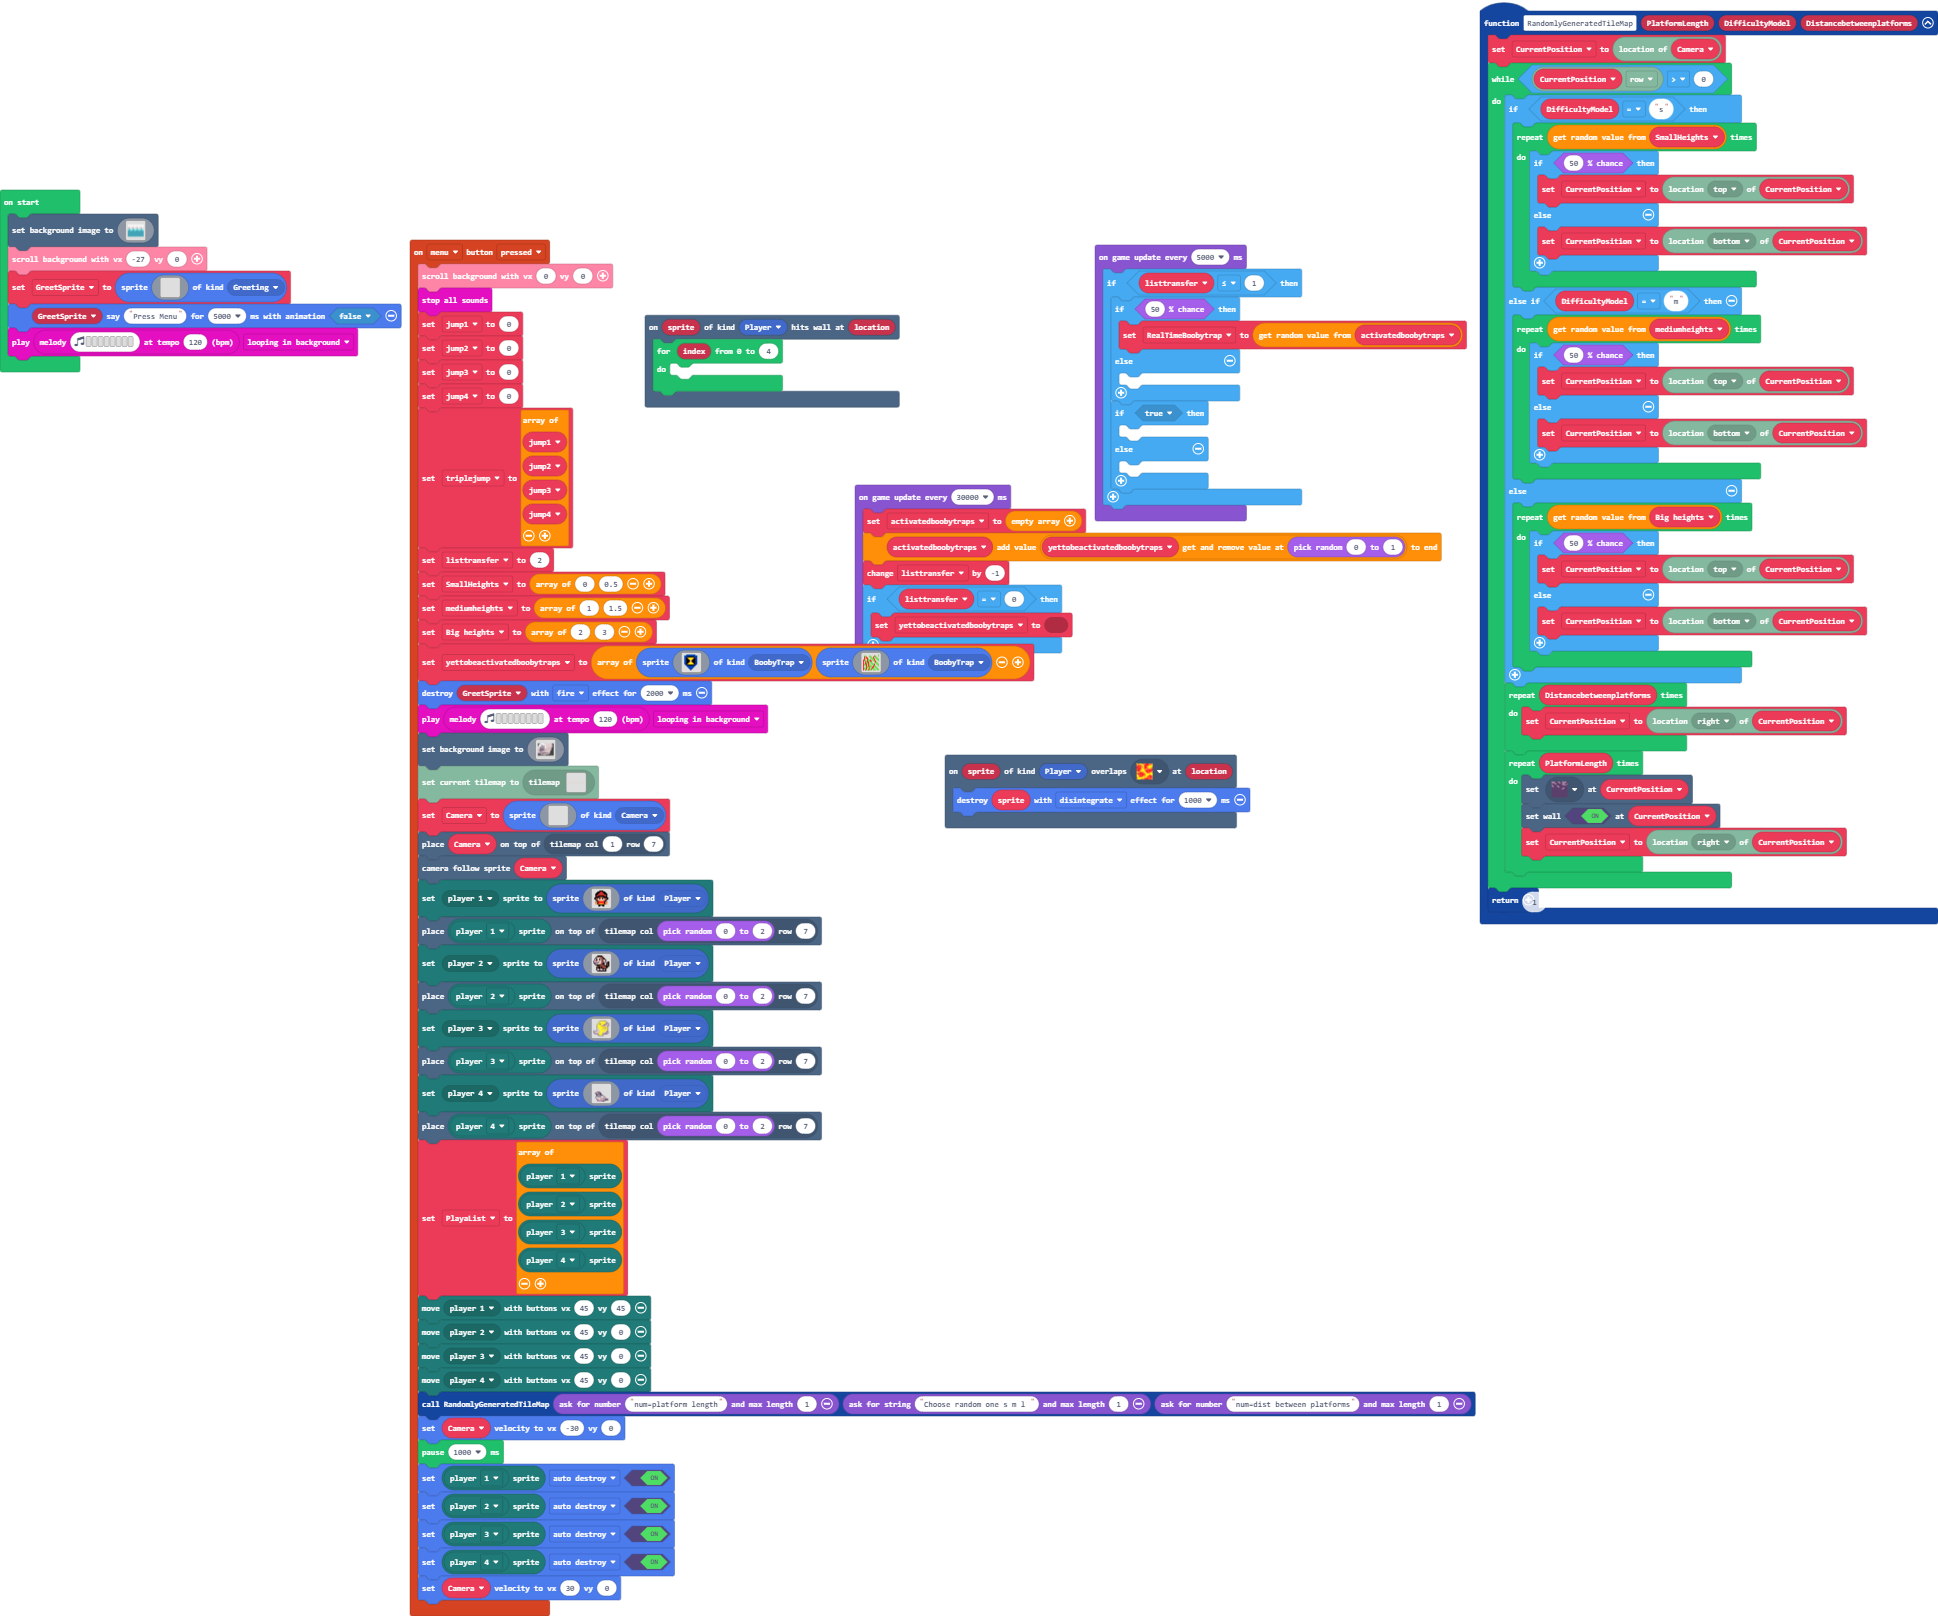
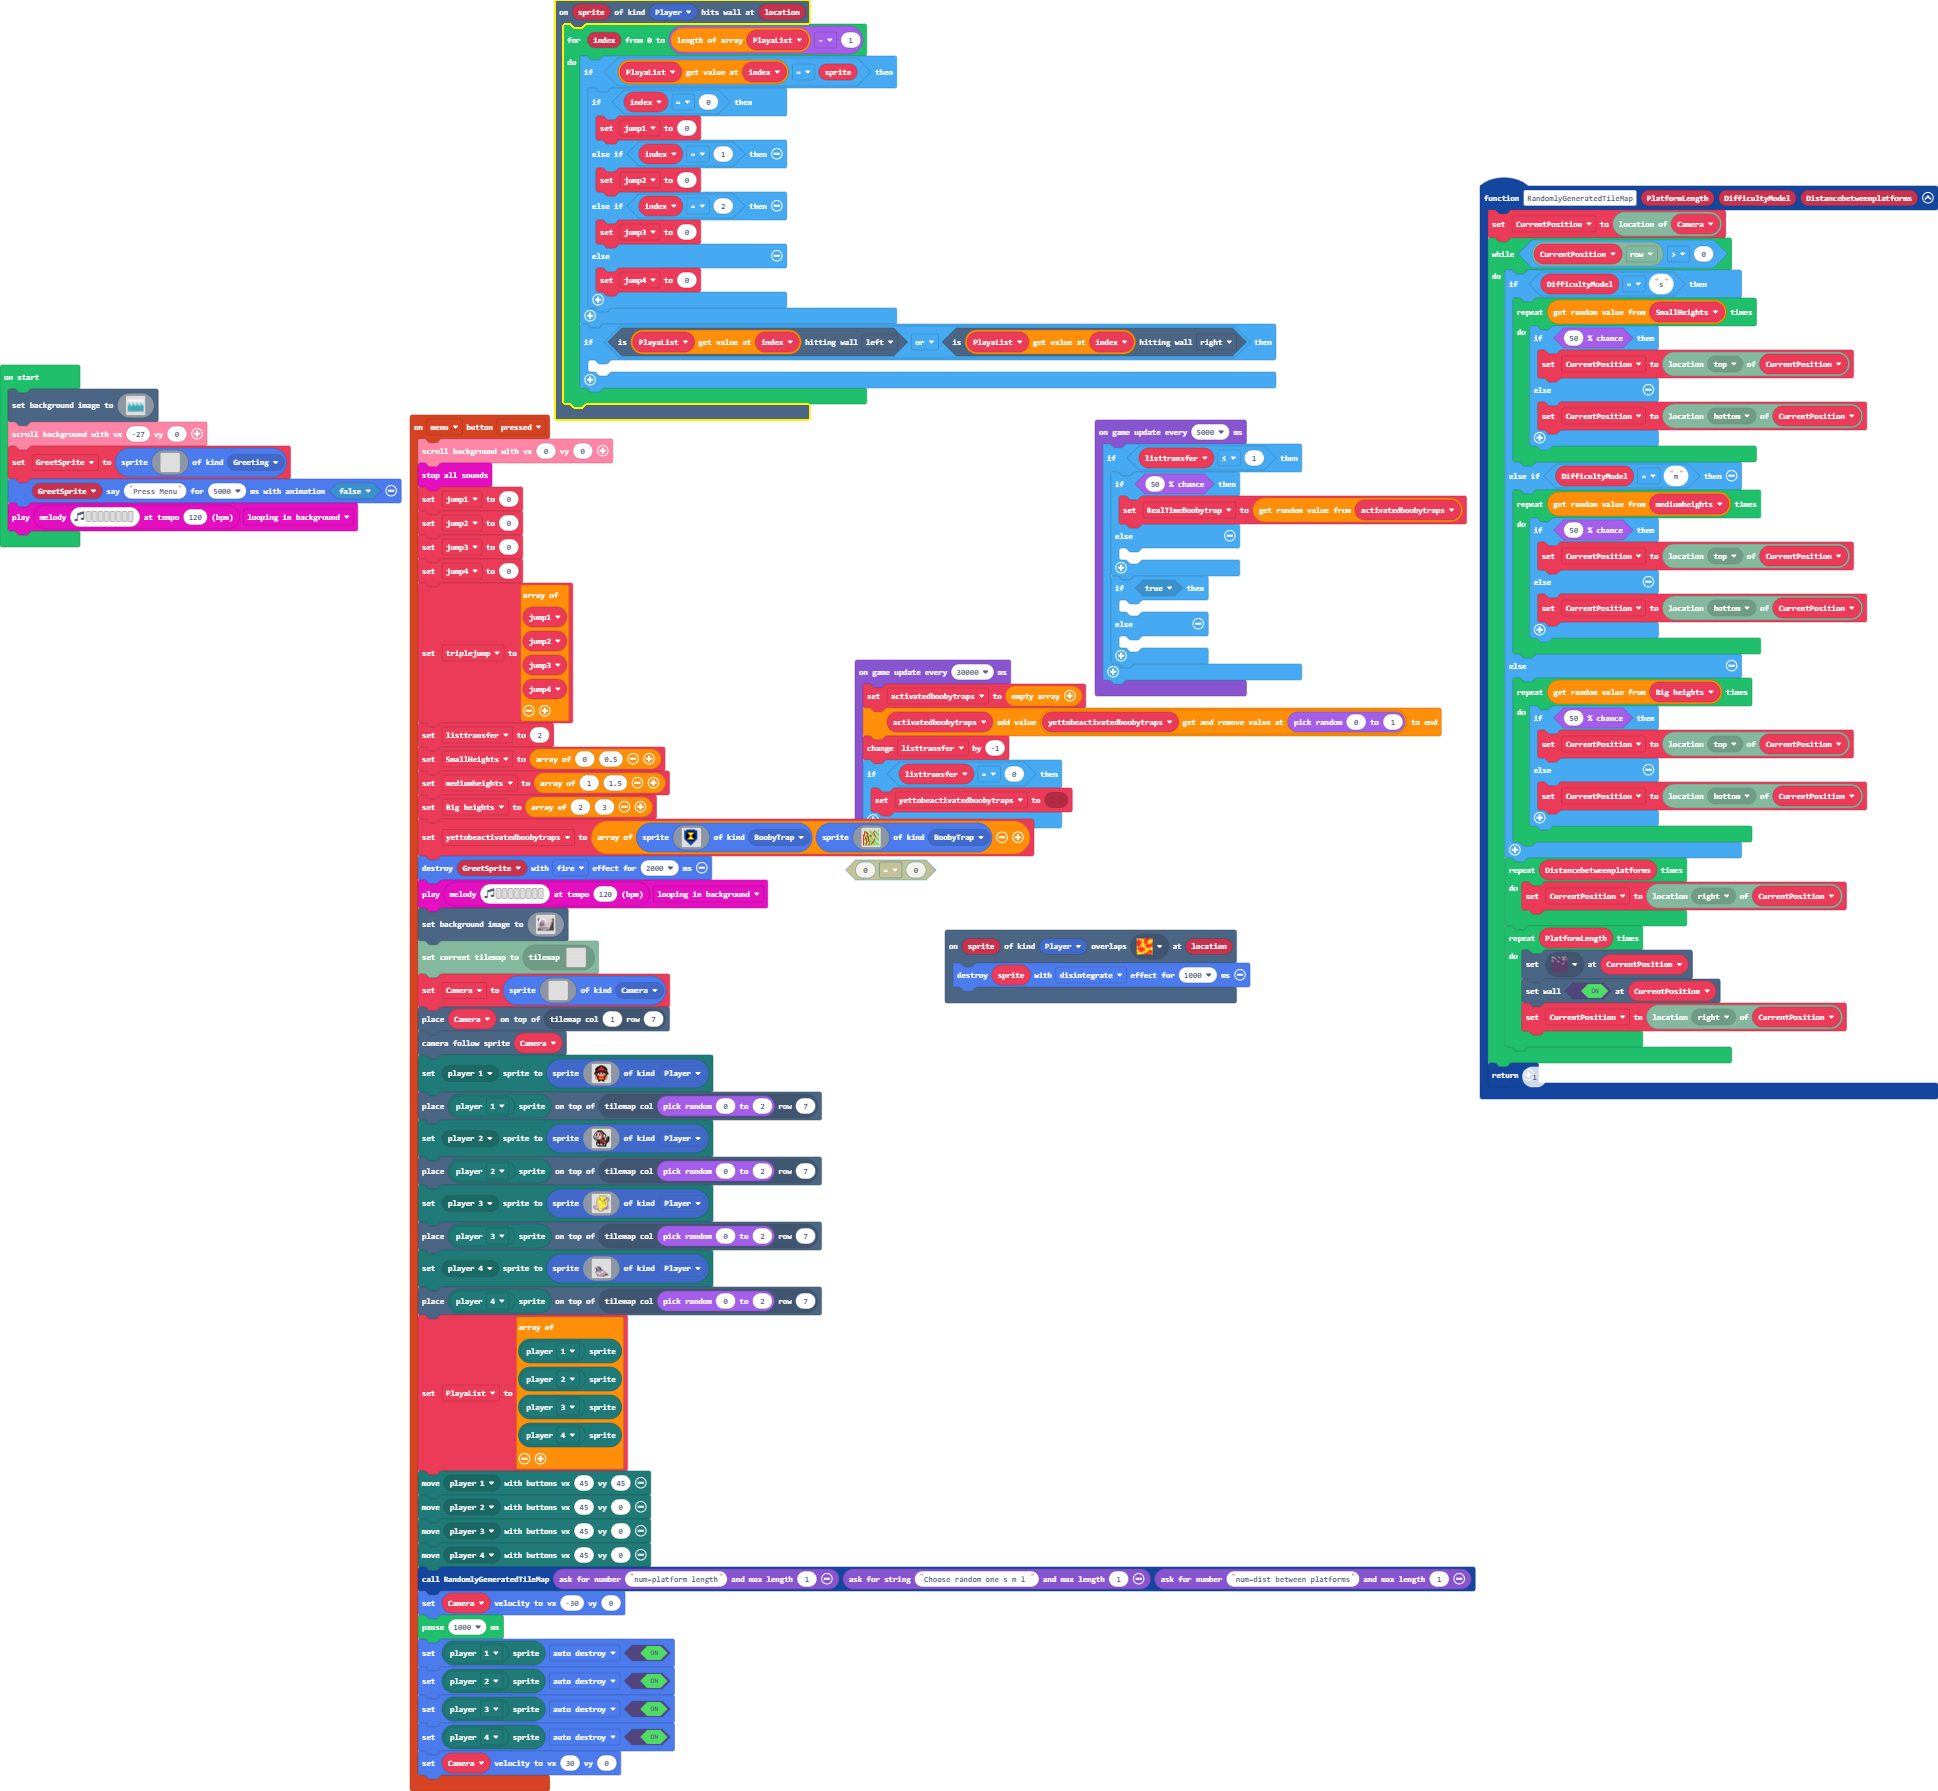
Update main.blocks, main.ts

Changed region(s): [[0.0, 0.0, 1.0, 1.0]]

diff --git a/main.ts b/main.ts
@@ -4,8 +4,21 @@ namespace SpriteKind {
     export const BoobyTrap = SpriteKind.create()
 }
 scene.onHitWall(SpriteKind.Player, function (sprite, location) {
-    for (let index = 0; index <= 4; index++) {
-    	
+    for (let index = 0; index <= PlayaList.length - 1; index++) {
+        if (PlayaList[index] == sprite) {
+            if (index == 0) {
+                jump1 = 0
+            } else if (index == 1) {
+                jump2 = 0
+            } else if (index == 2) {
+                jump3 = 0
+            } else {
+                jump4 = 0
+            }
+        }
+        if (PlayaList[index].isHittingTile(CollisionDirection.Left) || PlayaList[index].isHittingTile(CollisionDirection.Right)) {
+        	
+        }
     }
 })
 scene.onOverlapTile(SpriteKind.Player, sprites.dungeon.hazardLava1, function (sprite, location) {
@@ -341,7 +354,6 @@ function RandomlyGeneratedTileMap (PlatformLength: number, DifficultyModel: stri
 let activatedboobytraps: Sprite[] = []
 let RealTimeBoobytrap: Sprite = null
 let CurrentPosition: tiles.Location = null
-let PlayaList: Sprite[] = []
 let Camera: Sprite = null
 let yettobeactivatedboobytraps: Sprite[] = []
 let Big_heights: number[] = []
@@ -353,6 +365,7 @@ let jump4 = 0
 let jump3 = 0
 let jump2 = 0
 let jump1 = 0
+let PlayaList: Sprite[] = []
 let GreetSprite: Sprite = null
 scene.setBackgroundImage(img`
     1111111111111111111111111111111111111111111111111111111111111111111111111111111111111111111111111111111111111111111111111111111111111111111111111111111111111111
